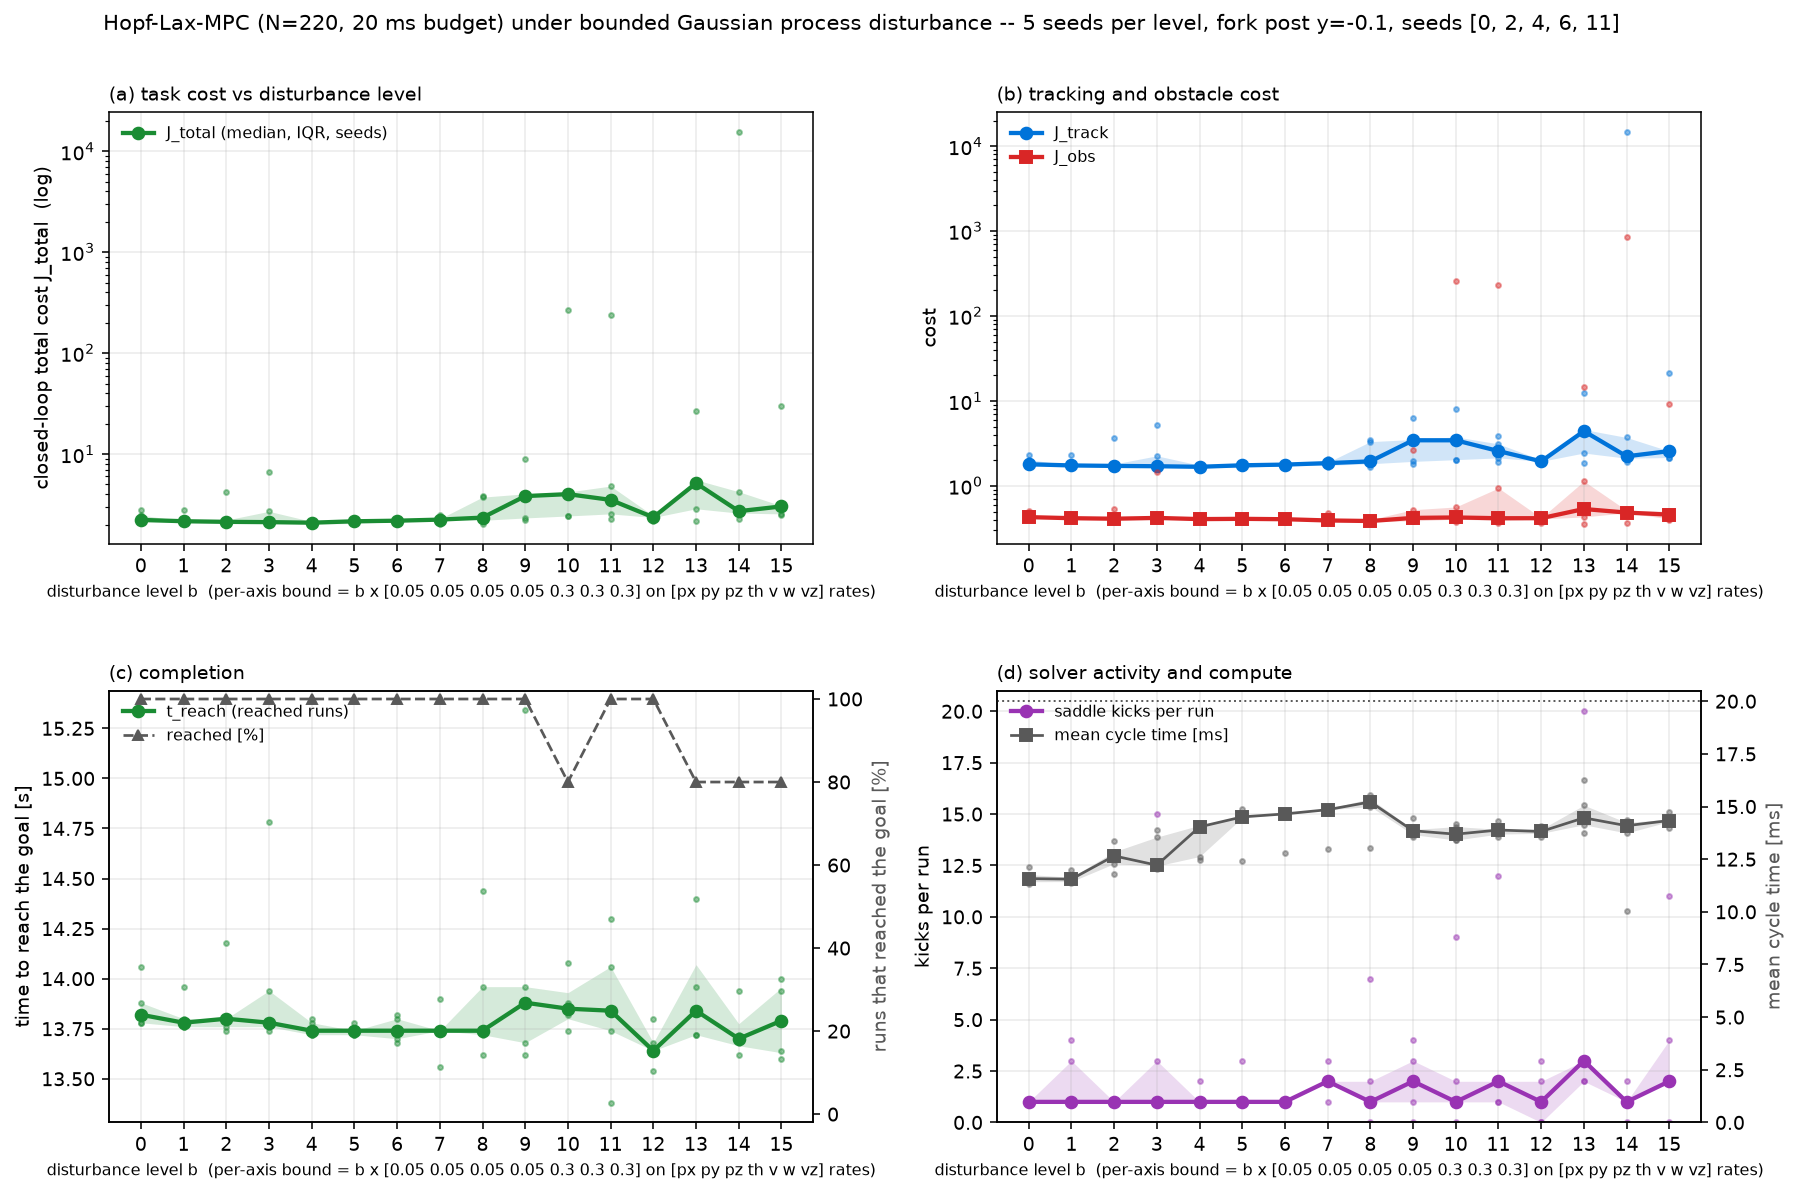
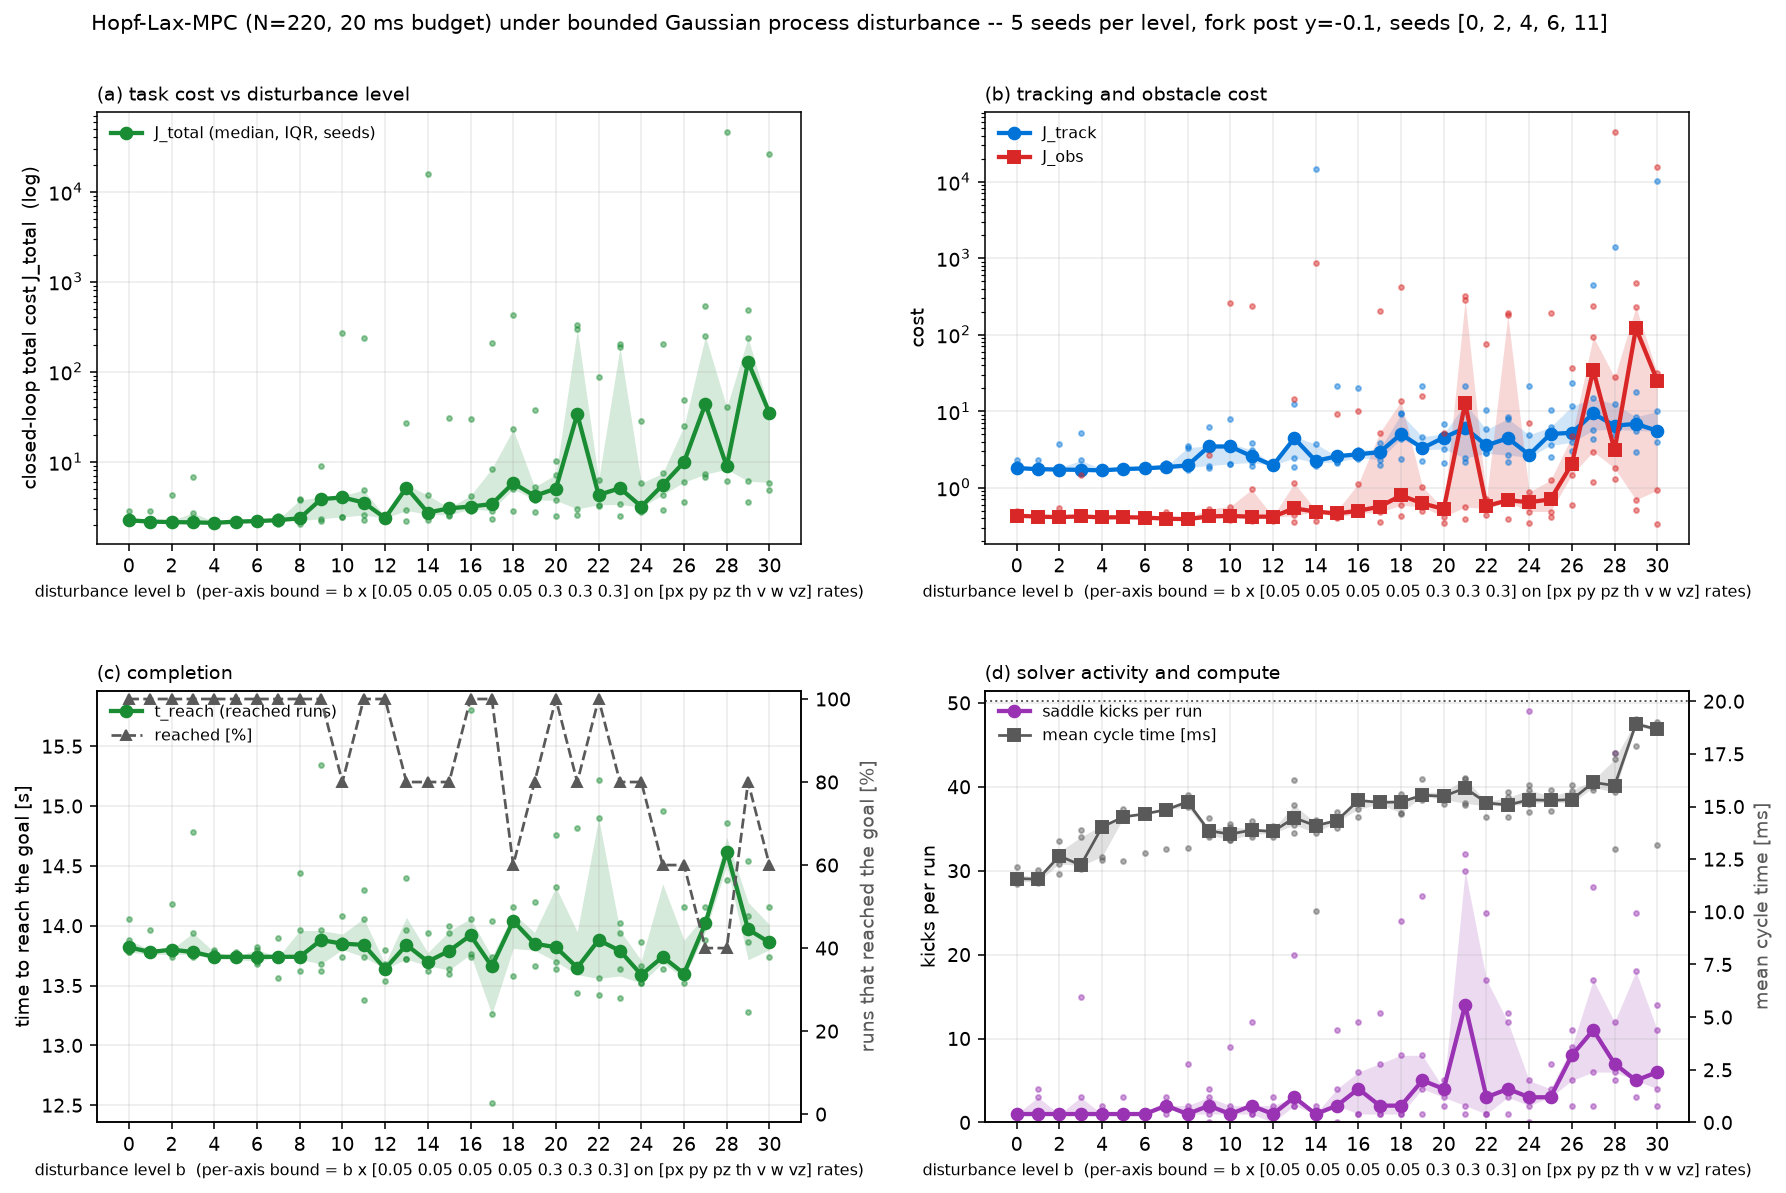
Disturbance sweep extended to b=30 (seeds 0,2,4,6,11)

diff --git a/plot_disturb.py b/plot_disturb.py
@@ -120,7 +120,7 @@ def main():
     for ax in (a, bx, c, d):
         ax.set_xlabel("disturbance level b  (per-axis bound = b x [%s] on [px py pz th v w vz] rates)"
                       % " ".join(f"{v:g}" for v in s), fontsize=8)
-        ax.grid(alpha=0.25); ax.set_xticks(bs)
+        ax.grid(alpha=0.25); ax.set_xticks(bs if len(bs) <= 16 else bs[::2])
     for ax in (a, bx):
         ax.legend(frameon=False, fontsize=8)
     fig.suptitle(f"Hopf-Lax-MPC (N={e0['N']}, 20 ms budget) under bounded Gaussian process disturbance -- "
